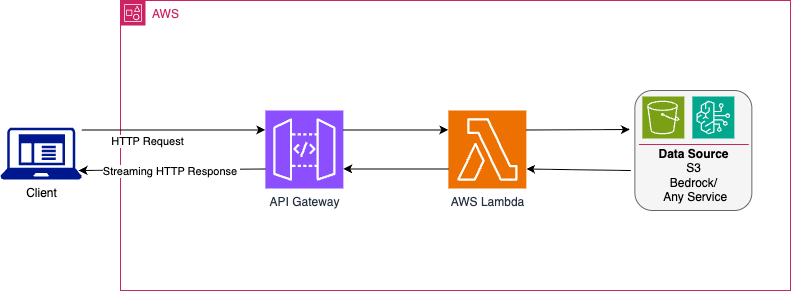
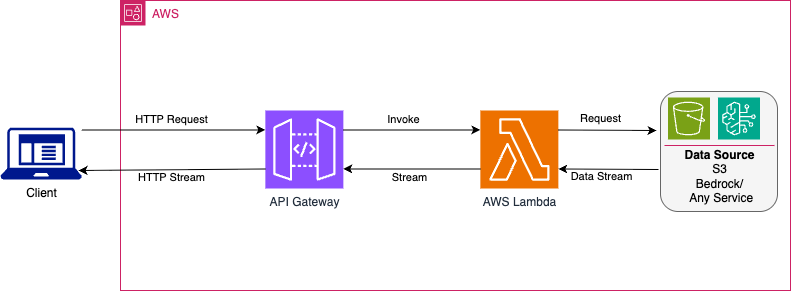
feat: solution design

diff --git a/README.md b/README.md
@@ -17,6 +17,8 @@
 
 A JVM library that implements the **AWS Lambda / API Gateway HTTP response streaming protocol** for Kotlin and Java.
 
+![Solution design: the client sends an HTTP request to API Gateway, which invokes the Lambda; the Lambda requests data from a source such as S3 or Bedrock and streams it back through API Gateway to the client](docs/SolutionDesign.png)
+
 AWS provides Node.js helpers (`HttpResponseStream.from()`) that hide the wire format. On the JVM there is no equivalent — you write the protocol by hand or use this library.
 
 For the background and a walkthrough of the library, read the article [AWS Lambda Response Streaming for Kotlin and Java](https://medium.com/aws-in-plain-english/aws-lambda-response-streaming-for-kotlin-and-java-646d8c51f7a0) on Medium.
